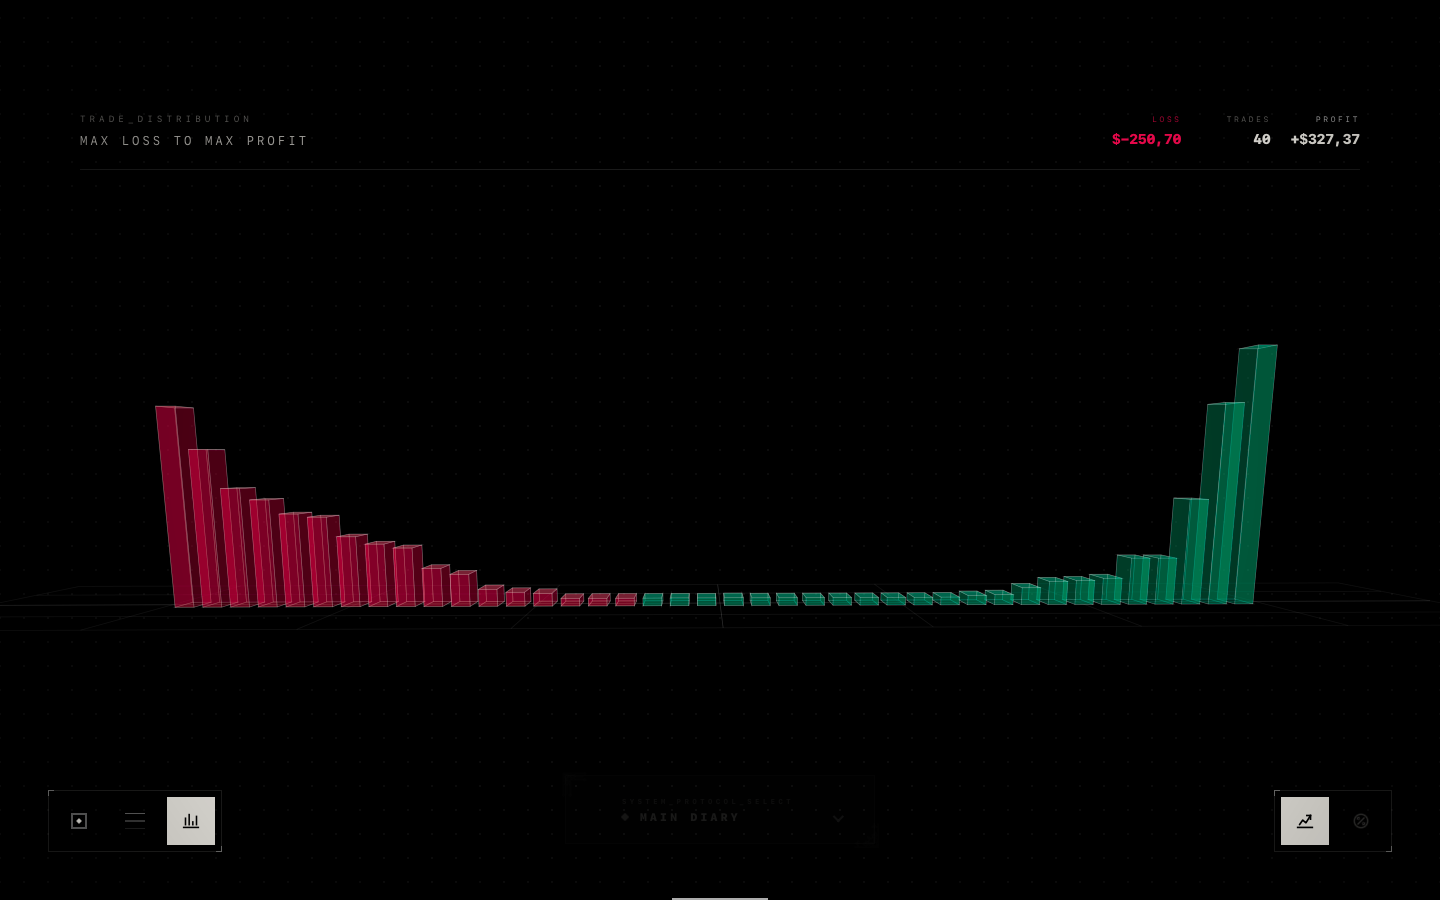
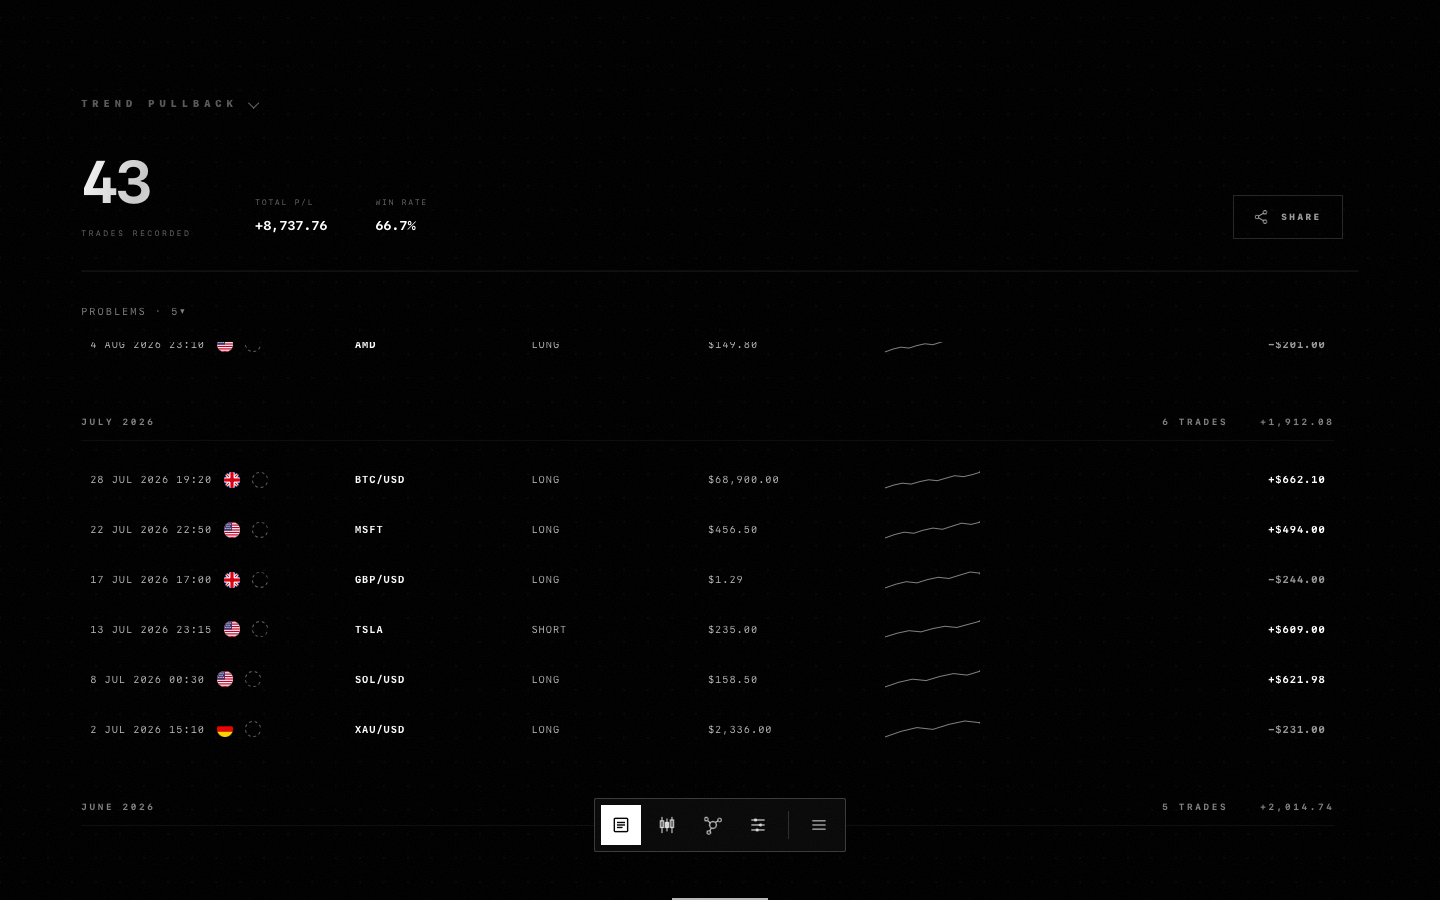
feat(seo): update og:image and twitter:image to new screenshot

diff --git a/dist/index.html b/dist/index.html
@@ -20,7 +20,7 @@
   <meta property="og:title" content="JORU — Free Desktop Trading Journal for Windows &amp; macOS">
   <meta property="og:description" content="Free desktop trading journal for Windows and macOS. Record trades, analyze equity and drawdowns, and identify the habits costing you money. 100% private with automated broker API imports.">
   <meta property="og:url" content="https://www.gandr.site/">
-  <meta property="og:image" content="https://www.gandr.site/screenshots/deep-data.png">
+  <meta property="og:image" content="https://www.gandr.site/og-image.png">
   <meta property="og:image:width" content="1440">
   <meta property="og:image:height" content="900">
   <meta property="og:image:type" content="image/png">
@@ -32,7 +32,7 @@
   <meta name="twitter:creator" content="@gandr_trade">
   <meta name="twitter:title" content="JORU — Free Desktop Trading Journal for Windows &amp; macOS">
   <meta name="twitter:description" content="Free desktop trading journal for Windows and macOS. Record trades, analyze equity and drawdowns, and identify the habits costing you money. 100% private with automated broker API imports.">
-  <meta name="twitter:image" content="https://www.gandr.site/screenshots/deep-data.png">
+  <meta name="twitter:image" content="https://www.gandr.site/og-image.png">
   <meta name="twitter:image:alt" content="JORU desktop trading journal interface">
   <title>JORU — Free Desktop Trading Journal for Windows &amp; macOS</title>
   <link rel="preconnect" href="https://fonts.googleapis.com">
@@ -138,11 +138,11 @@
     }
     window.scrollTo(0, 0);
   </script>
-  <script type="module" crossorigin src="/assets/index-BFJAykX5.js"></script>
+  <script type="module" crossorigin src="/assets/index-CSEpzF8f.js"></script>
   <link rel="stylesheet" crossorigin href="/assets/index-Iq1heNyh.css">
   <script type="application/ld+json">{"@context":"https://schema.org","@type":"Organization","name":"JORU","alternateName":["J.L.JÖRMUNGANDR","JLJ"],"url":"https://www.gandr.site/","logo":"https://www.gandr.site/icon.svg","email":"info@gandr.site","founder":{"@type":"Person","name":"Ivan Vorobei"},"sameAs":["https://t.me/gandr_trade"]}</script>
   <script type="application/ld+json">{"@context":"https://schema.org","@type":"WebSite","name":"JORU","alternateName":"JORU Trading Journal","url":"https://www.gandr.site/","inLanguage":["en","ru"]}</script>
-  <script type="application/ld+json">{"@context":"https://schema.org","@type":"SoftwareApplication","name":"JORU","alternateName":["J.L.JÖRMUNGANDR","JLJ"],"url":"https://www.gandr.site/","description":"JORU is an offline desktop trading journal and analytics workspace for Windows and macOS. Automated broker imports, candlestick replay, 132 risk metrics, Genesis Matrix and Monte Carlo simulations. 100% private local storage.","applicationCategory":"FinanceApplication","operatingSystem":"Windows 10, Windows 11, macOS 12+ (Apple Silicon & Intel)","softwareVersion":"1.0.0","screenshot":"https://www.gandr.site/screenshots/deep-data.png","featureList":["Broker & exchange imports: MetaTrader 5, Bybit, Binance, Kraken, Interactive Brokers","Candlestick chart replay with planned vs actual executions, stop-loss and take-profit points","Karl-Nikolai I habit investigation algorithm to pinpoint hidden unprofitable patterns","Genesis Matrix visual strategy builder tracking condition frequencies and profit factors","Monte Carlo risk simulation running 300 reshuffled alternative equity curves","31 in-depth metrics across 5 groups: matrix adherence, behavior, execution and risk","100% offline local SQLite storage — trades and API keys never leave your machine"],"offers":[{"@type":"Offer","name":"Free Plan","price":"0","priceCurrency":"USD","url":"https://www.gandr.site/pricing","description":"Free trading journal with no time limit."},{"@type":"Offer","name":"Full Plan","price":"9.99","priceCurrency":"USD","billingDuration":"P1M","url":"https://www.gandr.site/pricing","description":"Advanced analytics, Karl-Nikolai pattern detector, Monte Carlo simulation."}],"aggregateRating":{"@type":"AggregateRating","ratingValue":"4.9","reviewCount":"58","bestRating":"5","worstRating":"1"}}</script>
+  <script type="application/ld+json">{"@context":"https://schema.org","@type":"SoftwareApplication","name":"JORU","alternateName":["J.L.JÖRMUNGANDR","JLJ"],"url":"https://www.gandr.site/","description":"JORU is an offline desktop trading journal and analytics workspace for Windows and macOS. Automated broker imports, candlestick replay, 132 risk metrics, Genesis Matrix and Monte Carlo simulations. 100% private local storage.","applicationCategory":"FinanceApplication","operatingSystem":"Windows 10, Windows 11, macOS 12+ (Apple Silicon & Intel)","softwareVersion":"1.0.0","screenshot":"https://www.gandr.site/og-image.png","featureList":["Broker & exchange imports: MetaTrader 5, Bybit, Binance, Kraken, Interactive Brokers","Candlestick chart replay with planned vs actual executions, stop-loss and take-profit points","Karl-Nikolai I habit investigation algorithm to pinpoint hidden unprofitable patterns","Genesis Matrix visual strategy builder tracking condition frequencies and profit factors","Monte Carlo risk simulation running 300 reshuffled alternative equity curves","31 in-depth metrics across 5 groups: matrix adherence, behavior, execution and risk","100% offline local SQLite storage — trades and API keys never leave your machine"],"offers":[{"@type":"Offer","name":"Free Plan","price":"0","priceCurrency":"USD","url":"https://www.gandr.site/pricing","description":"Free trading journal with no time limit."},{"@type":"Offer","name":"Full Plan","price":"9.99","priceCurrency":"USD","billingDuration":"P1M","url":"https://www.gandr.site/pricing","description":"Advanced analytics, Karl-Nikolai pattern detector, Monte Carlo simulation."}],"aggregateRating":{"@type":"AggregateRating","ratingValue":"4.9","reviewCount":"58","bestRating":"5","worstRating":"1"}}</script>
   <script type="application/ld+json">{"@context":"https://schema.org","@type":"FAQPage","mainEntity":[{"@type":"Question","name":"What is JORU?","acceptedAnswer":{"@type":"Answer","text":"JORU is an offline desktop trading journal and analytics workspace for Windows and macOS. It helps traders systematically review trade executions, track risk metrics, test strategy conditions, and eliminate costly habits with the Karl-Nikolai I detection algorithm."}},{"@type":"Question","name":"How does JORU compare to cloud journals like TradesViz, TraderSync or Edgewonk?","acceptedAnswer":{"@type":"Answer","text":"Unlike cloud SaaS platforms, JORU stores 100% of your trade records, screenshots, and exchange API keys locally on your computer in an embedded SQLite database. Your financial data is never tracked, leaked, or sold to third parties, and the application operates with zero latency and full offline capability."}},{"@type":"Question","name":"Is JORU really free?","acceptedAnswer":{"@type":"Answer","text":"Yes. The Free plan is free forever with no trial period, time limits, or credit card required. It includes core journaling, trade tagging, screenshots, activity monitor, equity curves, and drawdown tracking. The Full plan ($9.99/mo) adds advanced Karl-Nikolai pattern detection, Genesis Matrix, and Monte Carlo risk simulations."}},{"@type":"Question","name":"Which brokers and exchanges are supported for import?","acceptedAnswer":{"@type":"Answer","text":"JORU supports automated trade imports from MetaTrader 5 (MT5), Bybit, Binance, Kraken, and Interactive Brokers (IBKR), alongside manual trade logging with interactive candlestick chart replay."}},{"@type":"Question","name":"Which operating systems are supported?","acceptedAnswer":{"@type":"Answer","text":"JORU runs natively on macOS 12 Monterey or newer (Universal binary supporting Apple Silicon M1/M2/M3/M4 and Intel) and 64-bit Windows 10/11."}},{"@type":"Question","name":"How does Karl-Nikolai I detect costly habits?","acceptedAnswer":{"@type":"Answer","text":"Karl-Nikolai I tests individual conditions and combinations across your trading history (session time, trade direction, post-loss revenge trades) and ranks unprofitable patterns by statistical confidence and capital impact, helping you enforce discipline with objective rules."}}]}</script>
   <script type="application/ld+json">{"@context":"https://schema.org","@type":"VideoObject","name":"LOG — JORU trading journal","description":"Review every trade and decision in context so patterns become impossible to miss.","thumbnailUrl":"https://www.gandr.site/assets/videos/log-poster.jpg","contentUrl":"https://www.gandr.site/assets/videos/log.mov","uploadDate":"2026-08-19","duration":"PT14S"}</script>
   <script type="application/ld+json">{"@context":"https://schema.org","@type":"VideoObject","name":"EQUITY — JORU trading journal","description":"Track the full performance of your strategy, from the first trade to the final result.","thumbnailUrl":"https://www.gandr.site/assets/videos/equity-poster.jpg","contentUrl":"https://www.gandr.site/assets/videos/equity.mov","uploadDate":"2026-08-19","duration":"PT18S"}</script>

diff --git a/index.html b/index.html
@@ -20,7 +20,7 @@
   <meta property="og:title" content="JORU — Free Desktop Trading Journal for Windows &amp; macOS">
   <meta property="og:description" content="Review trades on candlestick charts, find costly habits with Karl-Nikolai, analyze 132 risk metrics and keep your data 100% offline.">
   <meta property="og:url" content="https://www.gandr.site/">
-  <meta property="og:image" content="https://www.gandr.site/screenshots/deep-data.png">
+  <meta property="og:image" content="https://www.gandr.site/og-image.png">
   <meta property="og:image:width" content="1440">
   <meta property="og:image:height" content="900">
   <meta property="og:image:type" content="image/png">
@@ -32,7 +32,7 @@
   <meta name="twitter:creator" content="@gandr_trade">
   <meta name="twitter:title" content="JORU — Free Desktop Trading Journal for Windows &amp; macOS">
   <meta name="twitter:description" content="Review trades on candlestick charts, find costly habits with Karl-Nikolai, analyze 132 risk metrics and keep your data 100% offline.">
-  <meta name="twitter:image" content="https://www.gandr.site/screenshots/deep-data.png">
+  <meta name="twitter:image" content="https://www.gandr.site/og-image.png">
   <meta name="twitter:image:alt" content="JORU desktop trading journal interface">
   <title>JORU — Free Desktop Trading Journal for Windows &amp; macOS</title>
   <link rel="preconnect" href="https://fonts.googleapis.com">

diff --git a/src/shared/seo.js b/src/shared/seo.js
@@ -5,7 +5,7 @@ export const BRAND = 'JORU'
 export const BRAND_ALTERNATES = ['J.L.JÖRMUNGANDR', 'JLJ']
 export const SEO_BRAND = 'JORU'
 export const CONTACT_EMAIL = 'info@gandr.site'
-export const SOCIAL_IMAGE = `${SITE}/screenshots/deep-data.png`
+export const SOCIAL_IMAGE = `${SITE}/og-image.png`
 export const homeAlternates = { en: `${SITE}/`, ru: `${SITE}/ru/` }
 
 export const keywords = {
